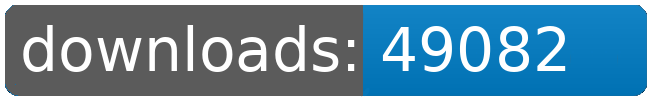
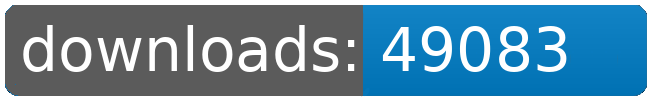
dl log written

Changed region(s): [[0.8308, 0.42, 0.8923, 0.72], [0.8, 0.27, 0.8615, 0.33]]

diff --git a/README.md b/README.md
@@ -21,8 +21,8 @@
 		<td>6463</td>
 		<td>6496</td>
 		<td>6522</td>
-		<td>6528</td>
-		<td>+ 6</td>
+		<td>6529</td>
+		<td>+ 7</td>
 	</tr>
 	<tr>
 		<td>Factory.Outlets</td>
@@ -109,8 +109,8 @@
 		<td></td>
 		<td></td>
 		<td></td>
-		<td>49082</td>
-		<td>35</td>
+		<td>49083</td>
+		<td>36</td>
 	</tr>
 </table>
 </sub></sup>
@@ -146,8 +146,8 @@
 		<td>6463</td>
 		<td>6496</td>
 		<td>6522</td>
-		<td>6528</td>
-		<td>+ 6</td>
+		<td>6529</td>
+		<td>+ 7</td>
 	</tr>
 	<tr>
 		<td>Louise.Conglomerate.Shipyards</td>
@@ -223,8 +223,8 @@
 		<td></td>
 		<td></td>
 		<td></td>
-		<td>49082</td>
-		<td>35</td>
+		<td>49083</td>
+		<td>36</td>
 	</tr>
 </table>
 </sub></sup>